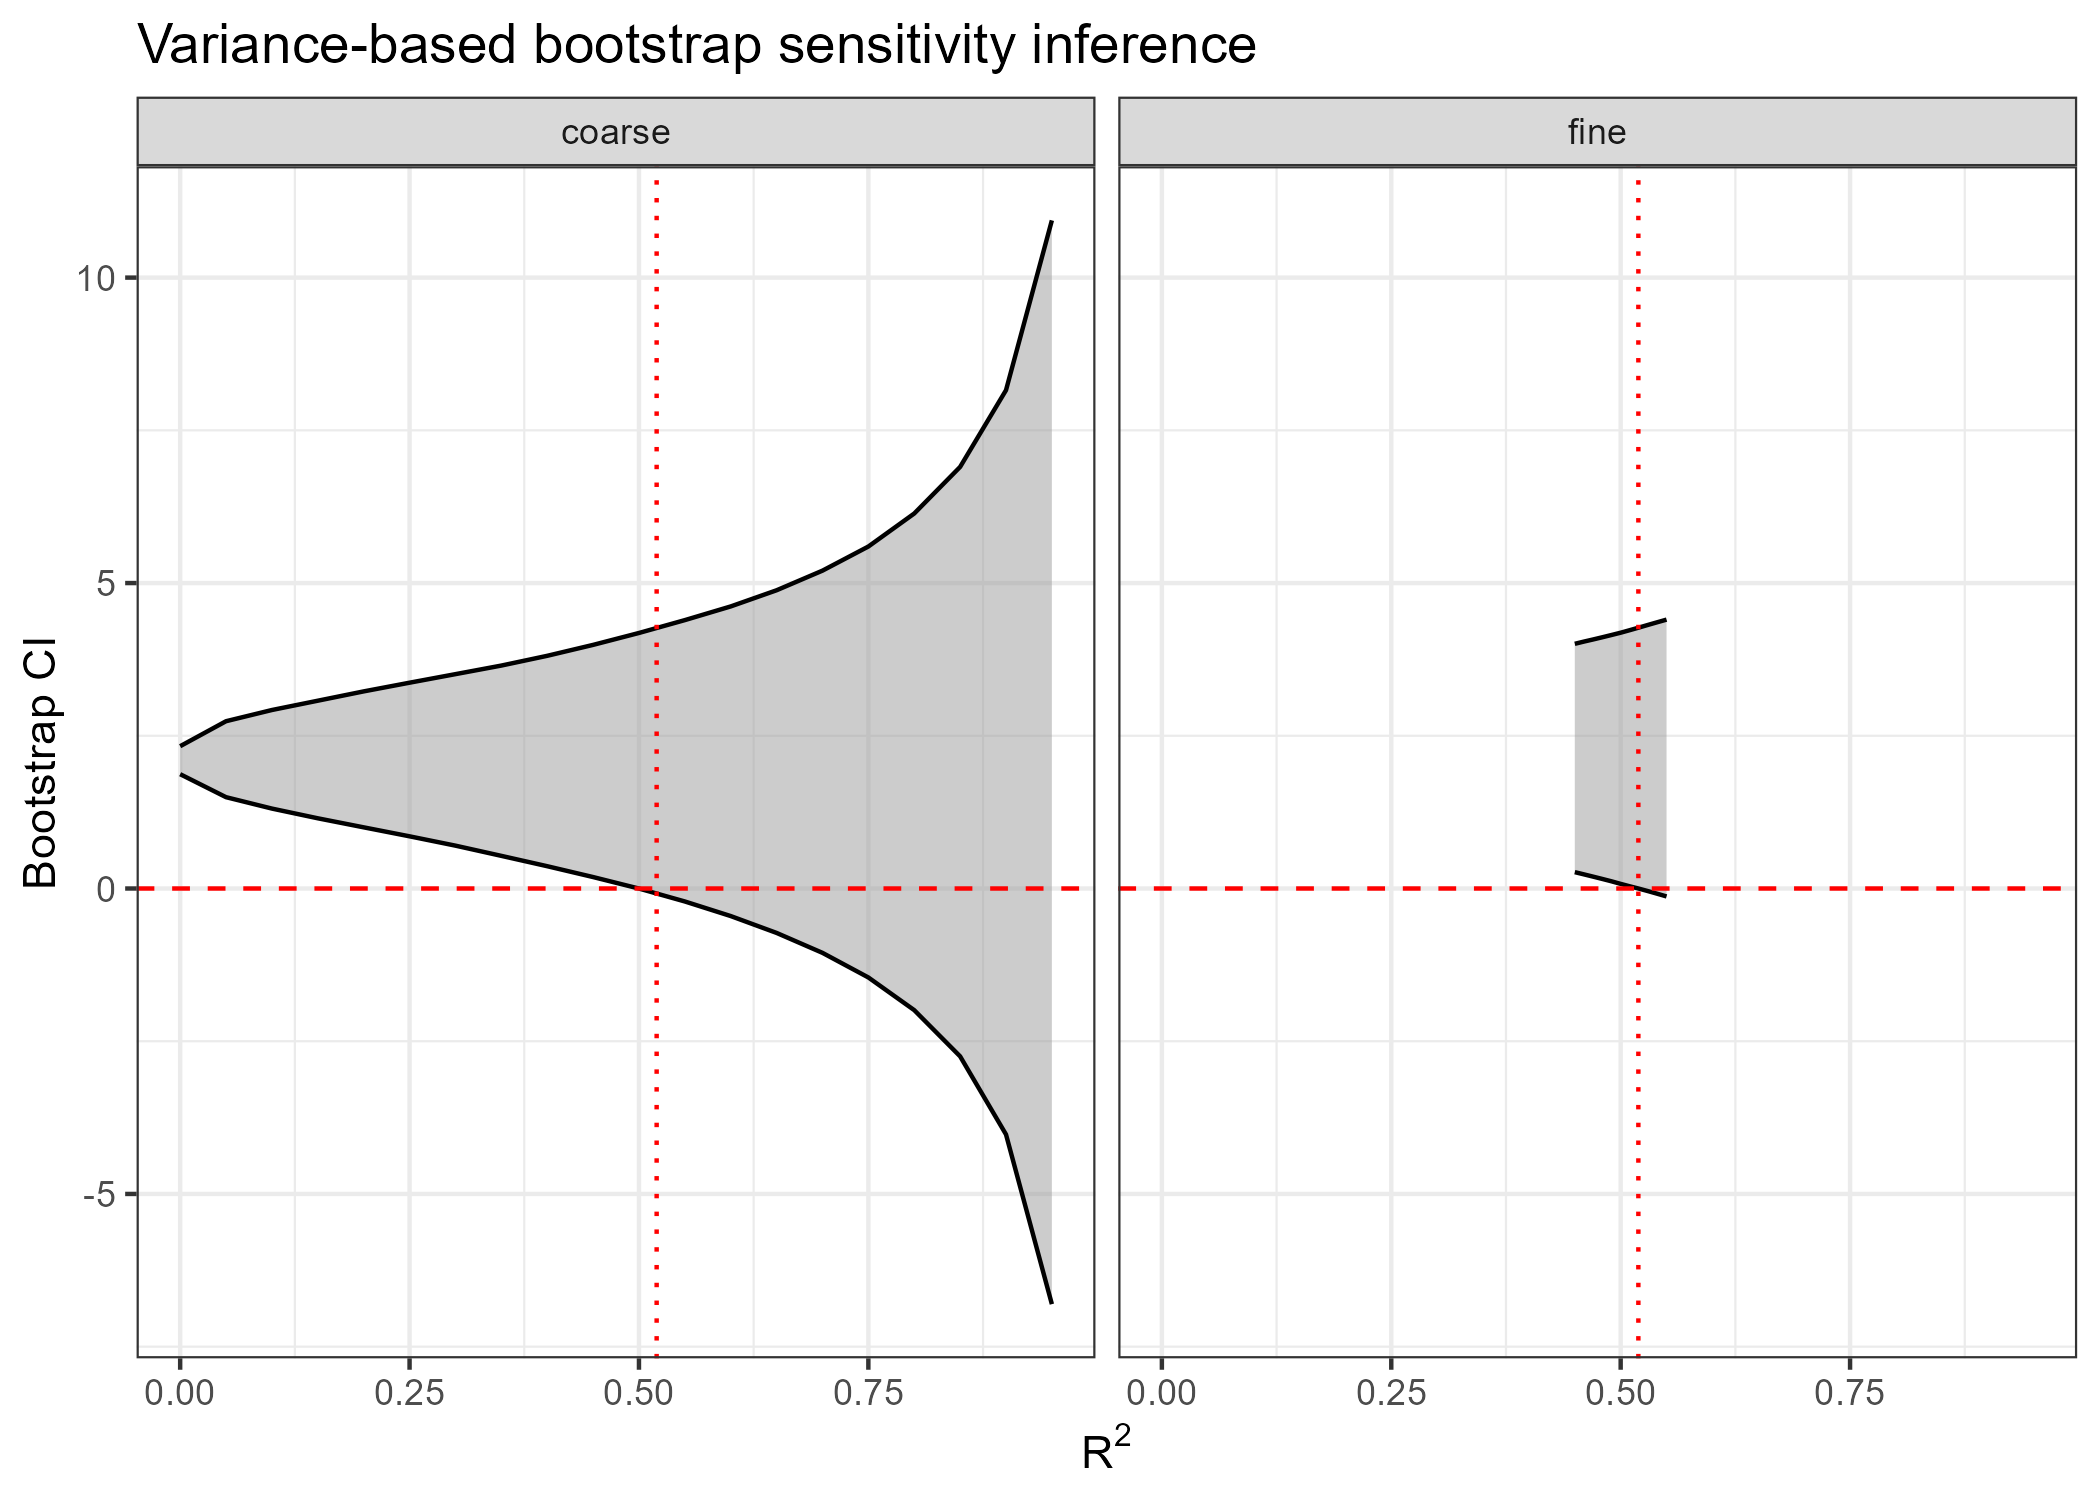
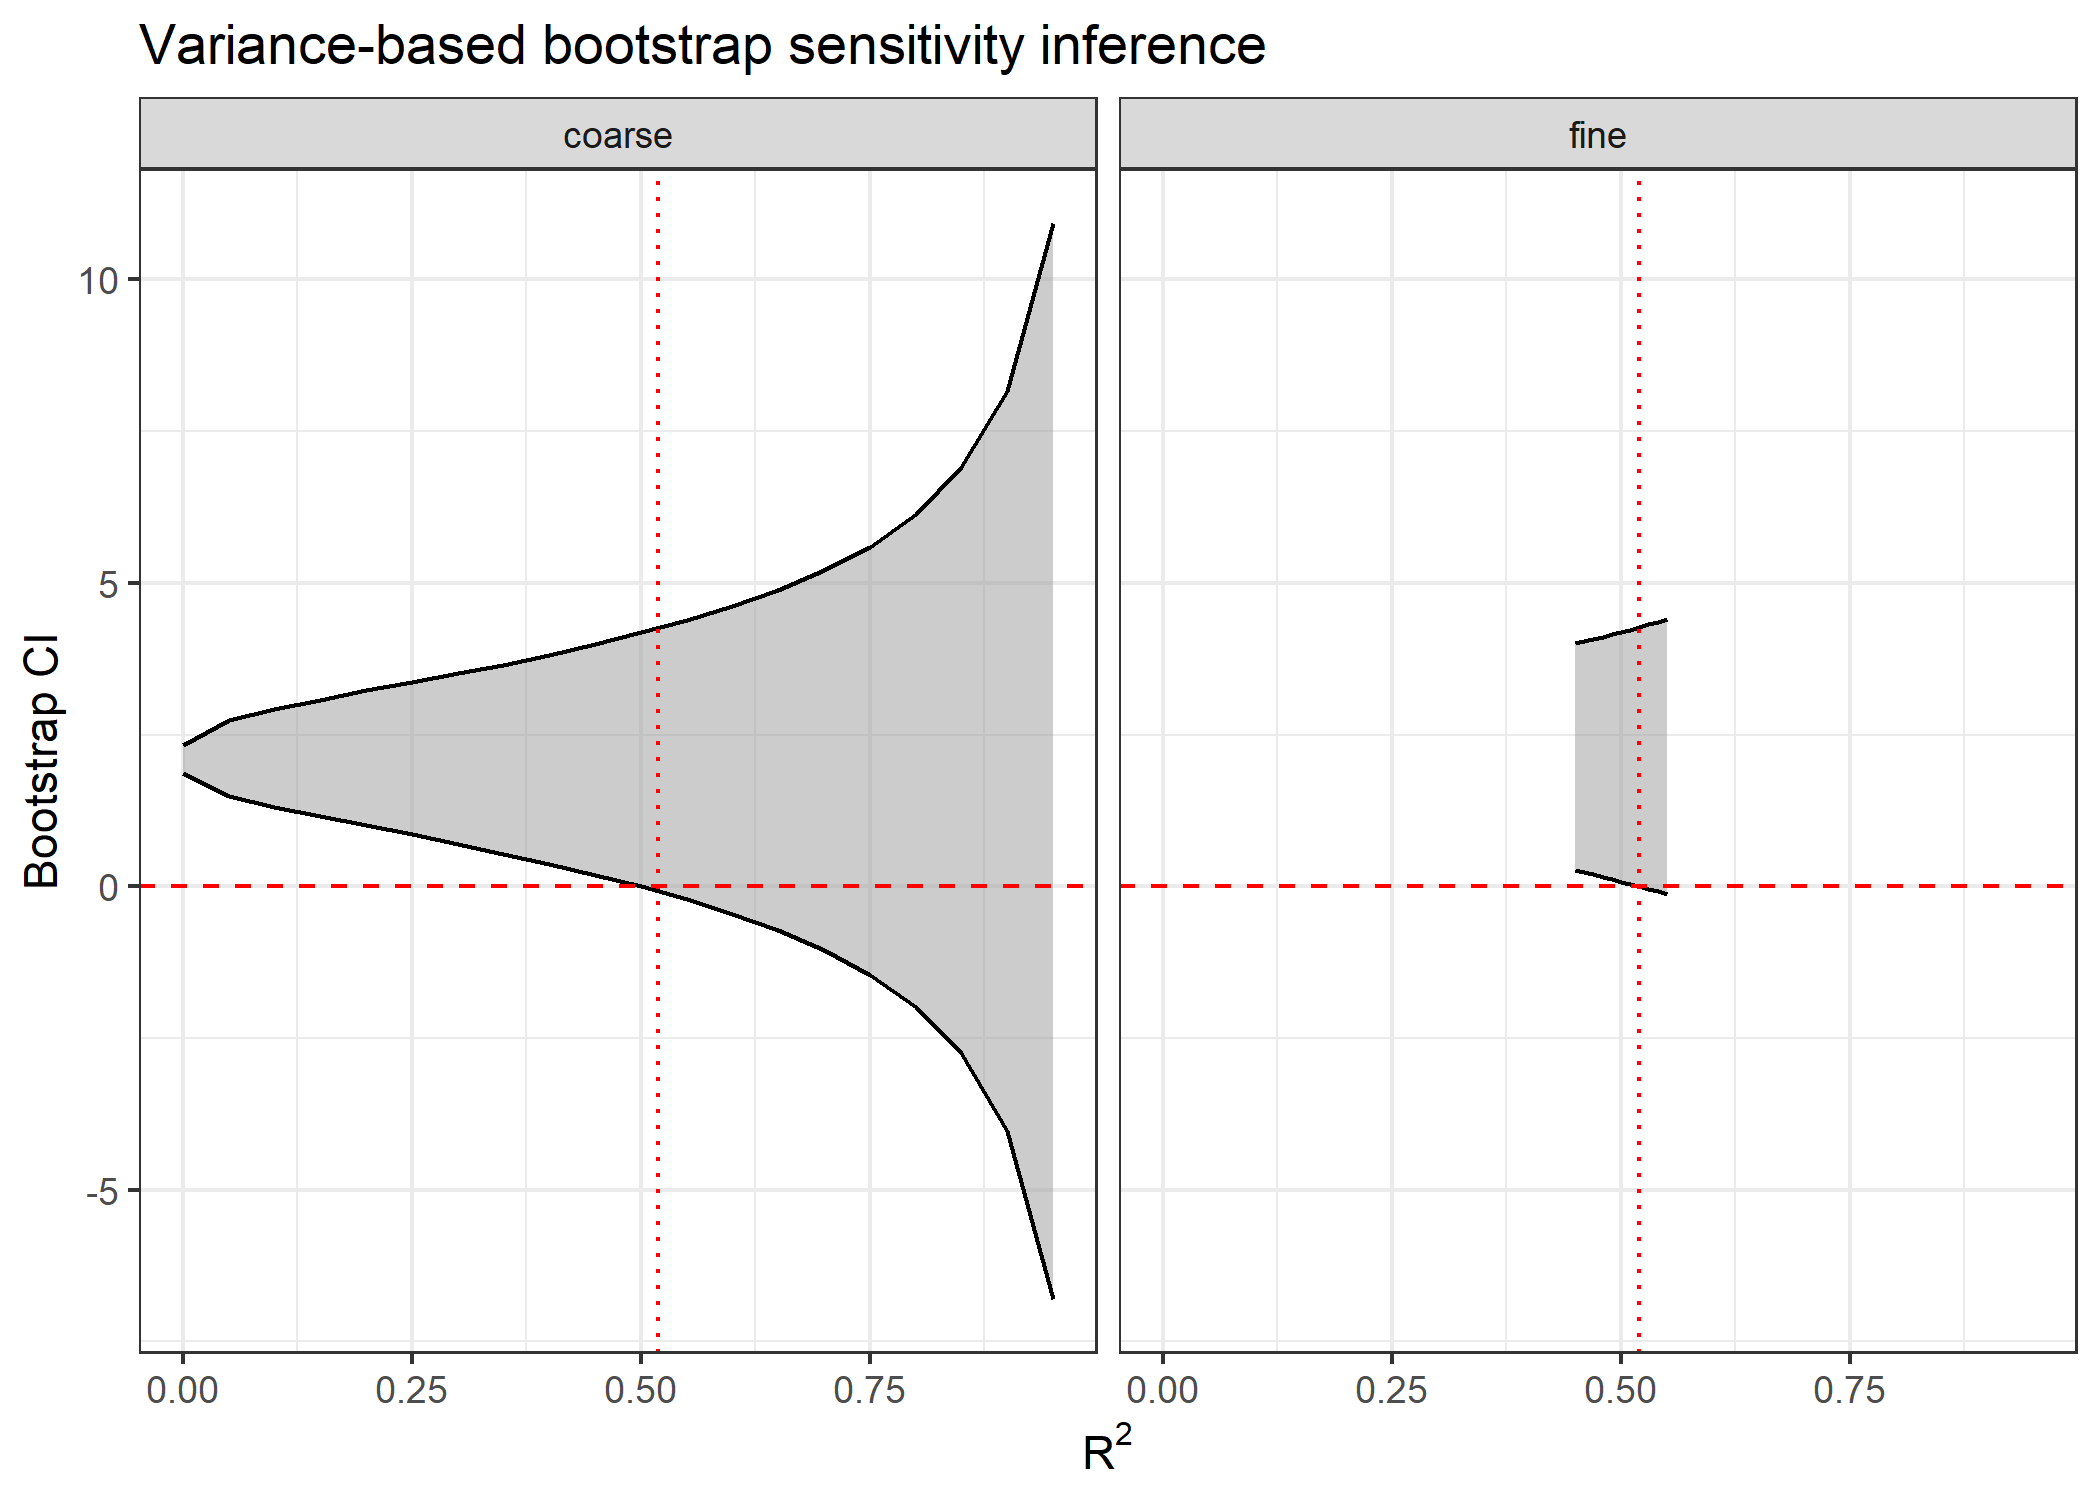
add ATT bounds when ploting

diff --git a/scripts/enhanced_plots.py b/scripts/enhanced_plots.py
@@ -175,6 +175,8 @@ def make_figure1(input_dir: Path, output_dir: Path) -> None:
     bootstrap = read_csv(input_dir, "plot_vbm_bootstrap_curve.csv")
     final_results = read_csv(input_dir, "final_results_vs_paper.csv")
     benchmark = read_csv(input_dir, "plot_covariate_benchmark_vbm_msm.csv")
+    point_bounds_path = input_dir / "plot_vbm_point_bounds_curve.csv"
+    point_bounds = read_csv(input_dir, "plot_vbm_point_bounds_curve.csv") if point_bounds_path.exists() else None
 
     xs = np.round(np.arange(0.0, 0.71, 0.1), 2)
 
@@ -187,6 +189,15 @@ def make_figure1(input_dir: Path, output_dir: Path) -> None:
     ci_lower = interpolate_curve(boot, "R2", "lower", xs)
     ci_upper = interpolate_curve(boot, "R2", "upper", xs)
     midpoints = (ci_lower + ci_upper) / 2
+
+    if point_bounds is not None and {"R2", "lower", "upper"}.issubset(point_bounds.columns):
+        point_lower = interpolate_curve(point_bounds, "R2", "lower", xs)
+        point_upper = interpolate_curve(point_bounds, "R2", "upper", xs)
+        point_midpoints = (point_lower + point_upper) / 2
+    else:
+        point_lower = ci_lower
+        point_upper = ci_upper
+        point_midpoints = midpoints
 
     r2_star = metric_value(
         final_results,
@@ -233,8 +244,9 @@ def make_figure1(input_dir: Path, output_dir: Path) -> None:
     fig, ax = plt.subplots(figsize=(14.5, 4.7))
 
     # ---------------- Main plot ----------------
-    ci_color = "#2F6F9F"
+    ci_color = "#8CB6D8"
     point_color = "#1F77B4"
+    point_interval_color = "#3C8DC7"
     null_color = "#7C8794"
     benchmark_color = "#A8C6DA"
     label_color = "#536879"
@@ -260,23 +272,37 @@ def make_figure1(input_dir: Path, output_dir: Path) -> None:
         zorder=2,
     )
 
+    point_interval_label_used = False
+    for x, lo, hi in zip(xs, point_lower, point_upper):
+        ax.plot(
+            [x, x],
+            [lo, hi],
+            color=point_interval_color,
+            linewidth=7.2,
+            solid_capstyle="butt",
+            alpha=0.92,
+            label="ATT point-estimate bounds" if not point_interval_label_used else "_nolegend_",
+            zorder=2.7,
+        )
+        point_interval_label_used = True
+
     ax.plot(
         xs,
-        midpoints,
+        point_midpoints,
         color=point_color,
         linewidth=1.15,
-        alpha=0.45,
+        alpha=0.38,
         zorder=2.5,
     )
 
     ax.scatter(
         xs,
-        midpoints,
+        point_midpoints,
         s=60,
         color=point_color,
         edgecolor="white",
         linewidth=1.0,
-        label="Bootstrap interval midpoint",
+        label="ATT point estimate",
         zorder=3,
     )
 
@@ -308,8 +334,8 @@ def make_figure1(input_dir: Path, output_dir: Path) -> None:
             zorder=0,
         )
 
-    ymin = min(ci_lower.min(), -0.15)
-    ymax = max(ci_upper.max(), 4.7)
+    ymin = min(ci_lower.min(), point_lower.min(), -0.15)
+    ymax = max(ci_upper.max(), point_upper.max(), 4.7)
 
     ax.set_xlim(*xlim)
     ax.set_ylim(ymin - 0.12, ymax + 0.45)
@@ -330,7 +356,8 @@ def make_figure1(input_dir: Path, output_dir: Path) -> None:
     handles, labels = ax.get_legend_handles_labels()
     legend_order = [
         "95% bootstrap CI",
-        "Bootstrap interval midpoint",
+        "ATT point-estimate bounds",
+        "ATT point estimate",
         "Null effect",
     ]
     by_label = dict(zip(labels, handles))
